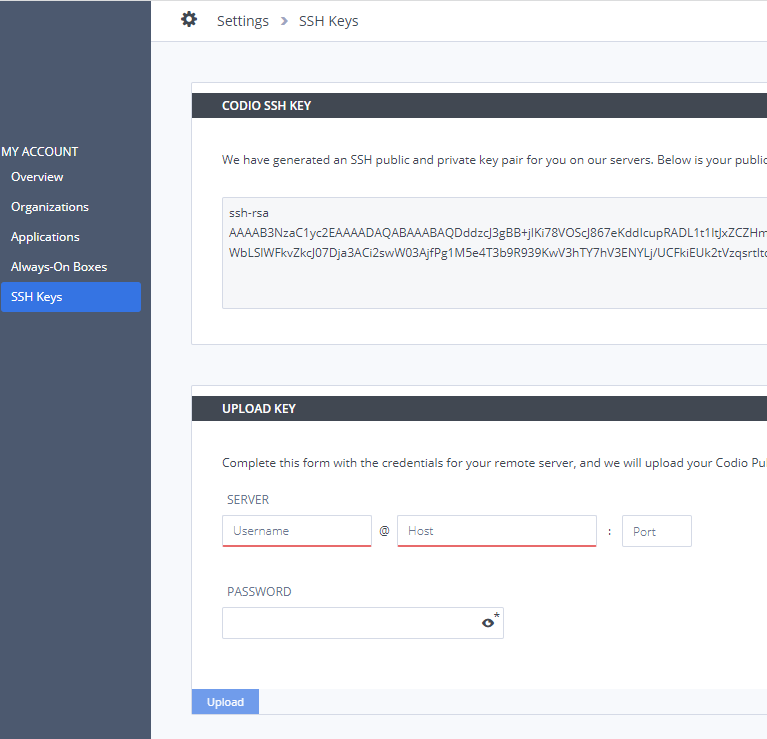
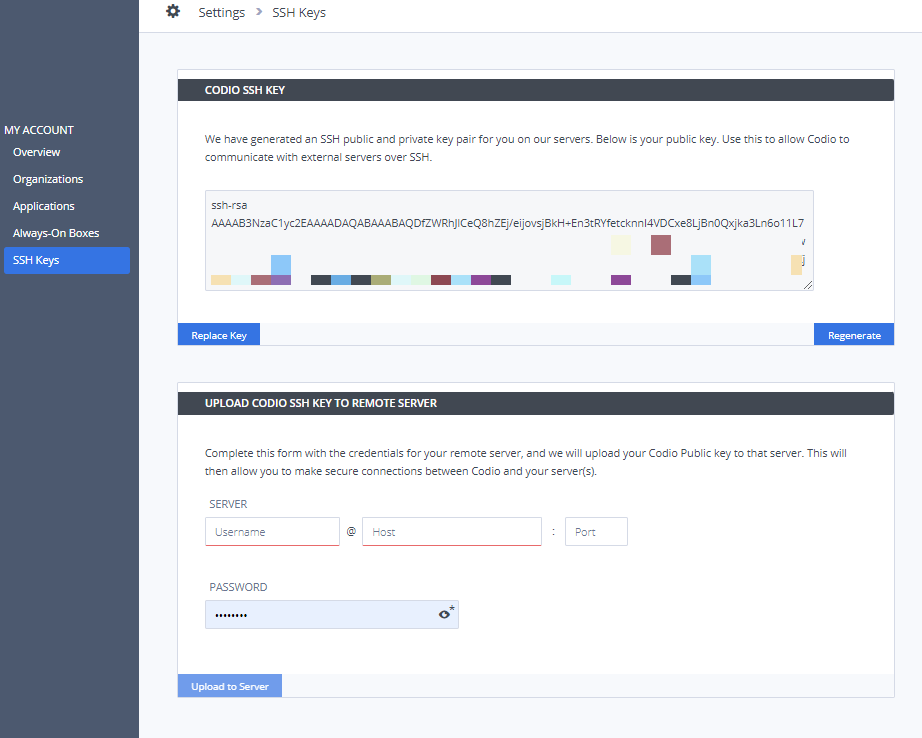
Remove licensed courses (#162)
* changelog #13990 #13881

* changelog #13950

* updated

diff --git a/source/instructors/setupcourses/add-remove-assignment.rst b/source/instructors/setupcourses/add-remove-assignment.rst
@@ -59,7 +59,7 @@ Once the course modules are created, you can add assignments (projects). You can
 
    .. Note:: For more information about authoring course content, :ref:`click here <guides-intro>`.
 
-3. Open the assignment to review it in the IDE and when readon **Publish** it . The assignment is not visible to students until it's published.
+3. Open the assignment to review it in the IDE and when ready **Publish** it . The assignment is not visible to students until it's published.
 
     - As you update your assignment, a **Publish** button will show on the top menu bar, to the left of your username.  
 

diff --git a/source/common/settings/ssh-key.rst b/source/common/settings/ssh-key.rst
@@ -11,4 +11,7 @@ An SSH public and private key pair is automatically generated for your account t
     .. image:: /img/prefs-account-ssh.png
        :alt: Codio SSH Key
 
+
+If you wish to regenerate the SSH public and private key in your Codio account, you can do so clicking the **Regenerate** button. If you would like to use your own custom key, click the **Replace Key** button. Any external servers that have used the original key will need to be updated to use the newly created key.
+
 To connect to a remote server, you must :ref:`upload your SSH key to the remote server <upload-ssh-key-remote-server>`.

diff --git a/source/instructors/getstarted/support/changelog.rst b/source/instructors/getstarted/support/changelog.rst
@@ -13,6 +13,10 @@ We do not report small bug fixes or issues that affect individual users, who we 
 `[I]` = Update or improvement
 `[F]` = New feature
 
+**June 2022**
+
+- `[F] [ 6th]`: Allow users to regenerate and replace automatically created :ref:`SSH keys <ssh-key>` for their account.
+
 **May 2022**
 
 - `[F] [26th]`: Add ability to copy :ref:`prerequisite <prerequisite>` assignment workspace to subsequent assignment for students
